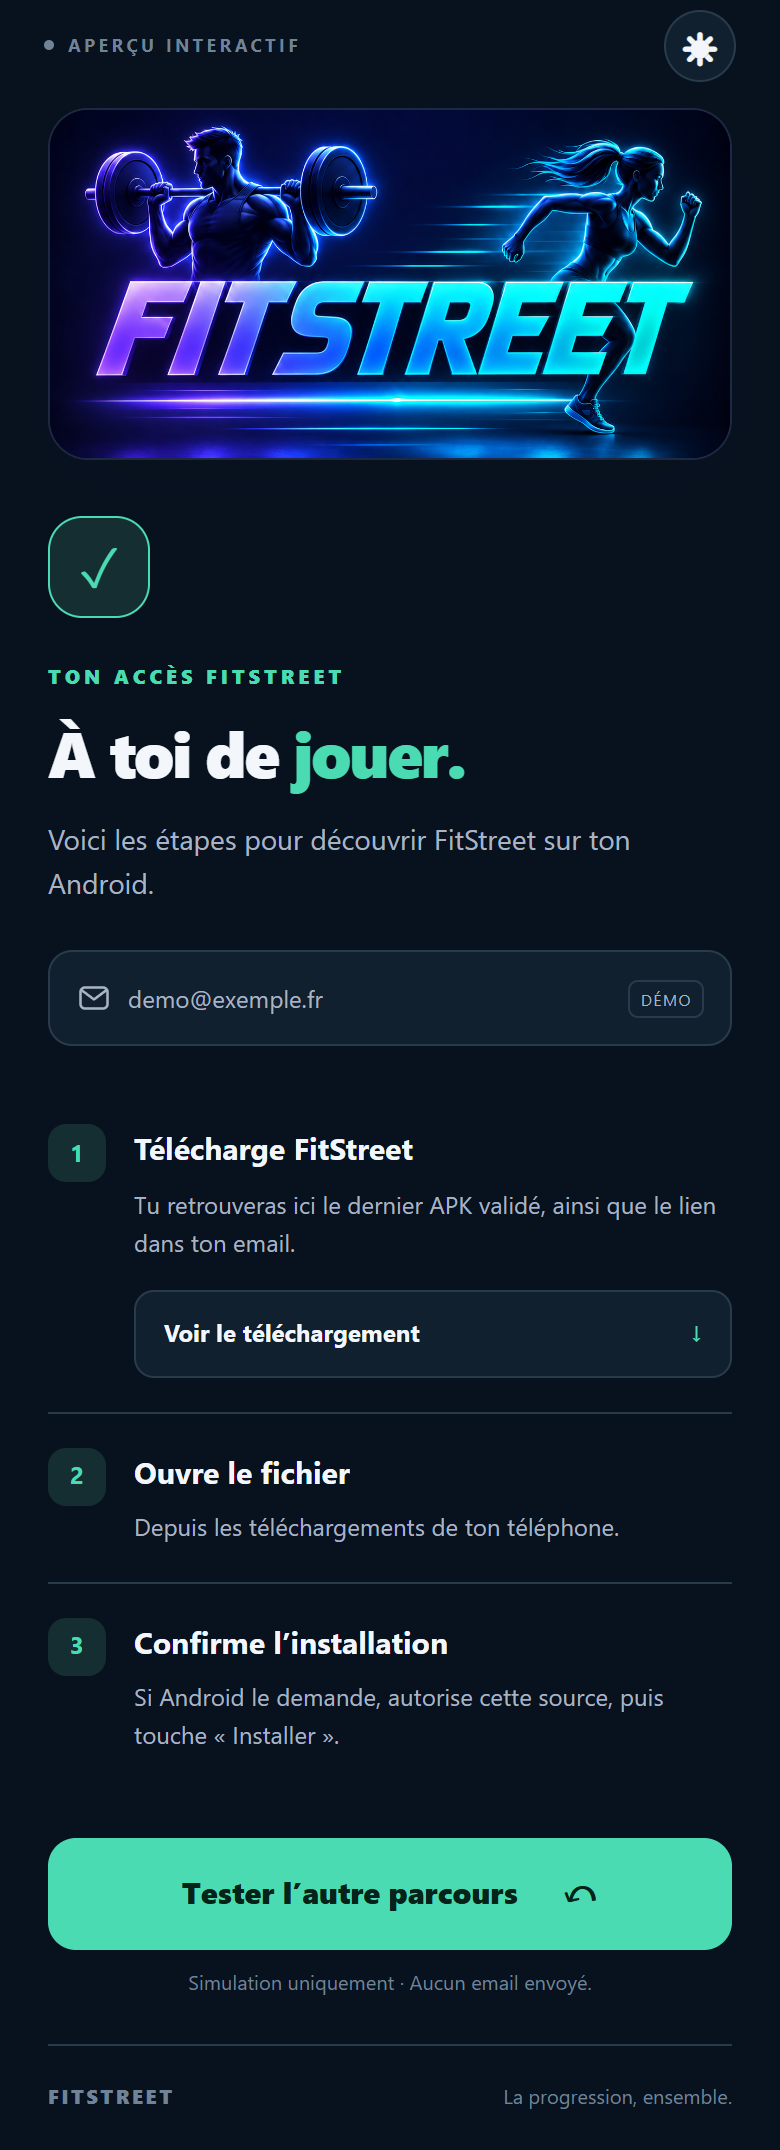
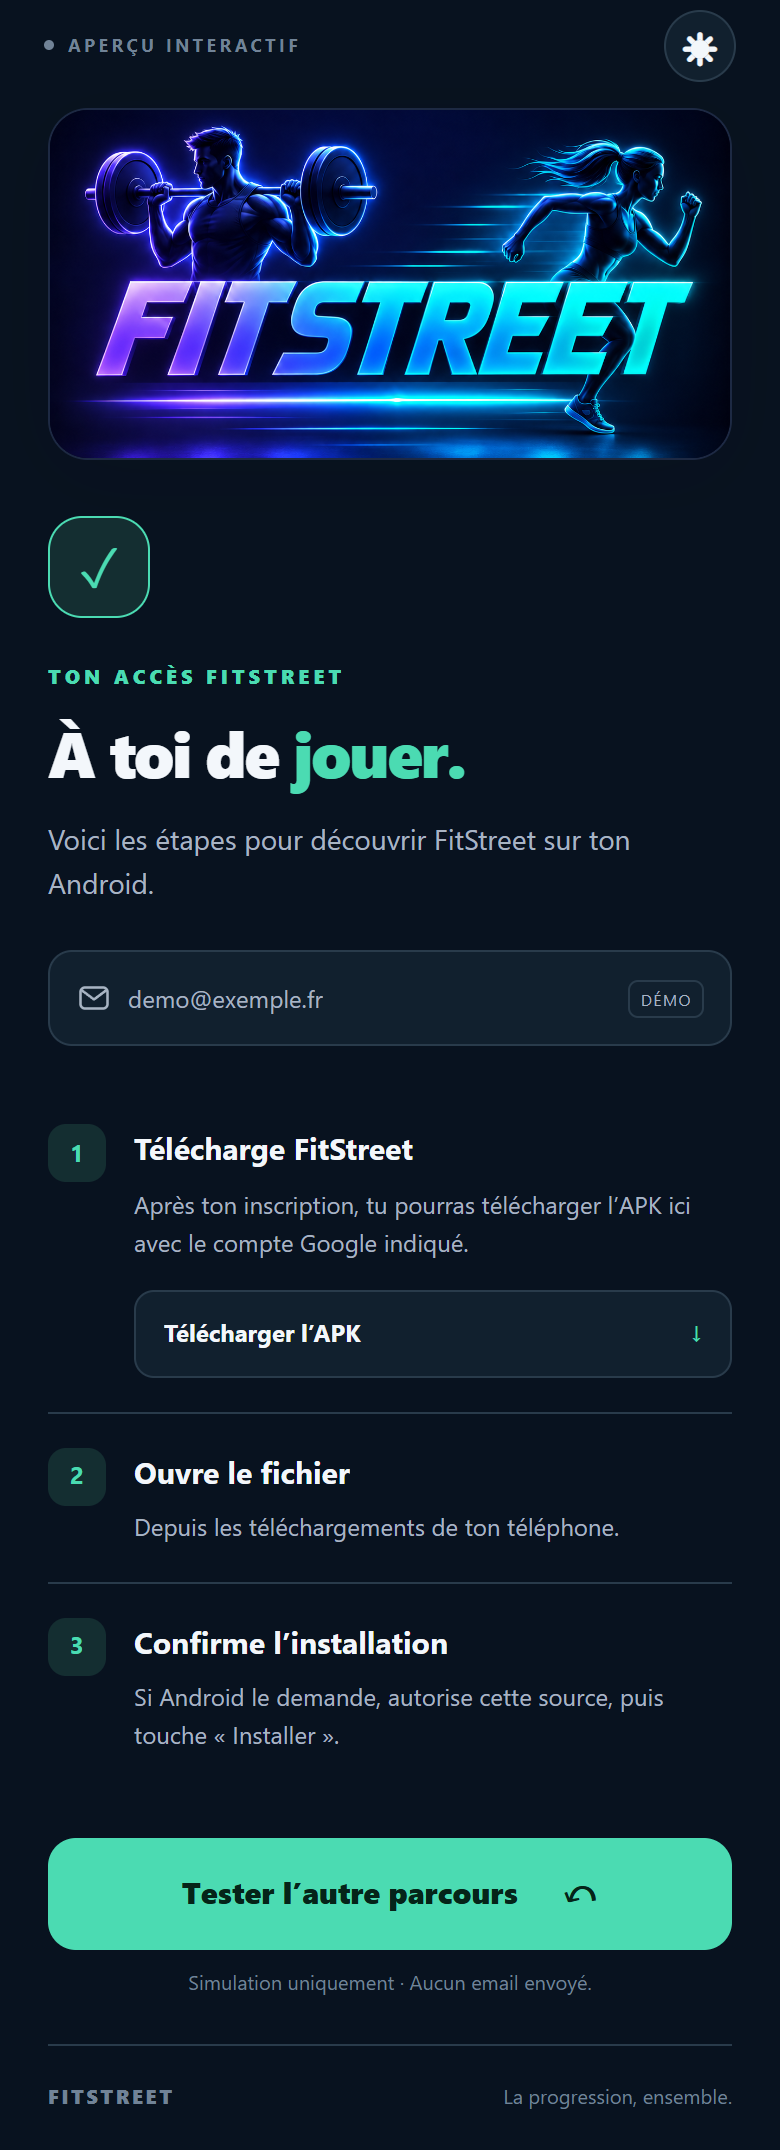
Clarify Android signup with direct APK access

Changed region(s): [[0.1846, 0.5609, 0.6154, 0.6233], [0.7077, 0.5609, 0.7385, 0.5921]]

diff --git a/index.html b/index.html
@@ -49,11 +49,11 @@
         <article><span class="step-number">3</span><div><h2>Installe FitStreet</h2><p>Accepte l’invitation, puis touche « Installer » dans TestFlight.</p></div></article>
       </div>
       <div id="android-steps" class="steps" hidden>
-        <article><span class="step-number">1</span><div><h2>Télécharge FitStreet</h2><p>Tu retrouveras ici le dernier APK validé, ainsi que le lien dans ton email.</p><button type="button" class="secondary" id="apk-demo">Voir le téléchargement <span aria-hidden="true">↓</span></button></div></article>
+        <article><span class="step-number">1</span><div><h2>Télécharge FitStreet</h2><p>Après ton inscription, tu pourras télécharger l’APK ici avec le compte Google indiqué.</p><button type="button" class="secondary" id="apk-demo">Télécharger l’APK <span aria-hidden="true">↓</span></button></div></article>
         <article><span class="step-number">2</span><div><h2>Ouvre le fichier</h2><p>Depuis les téléchargements de ton téléphone.</p></div></article>
         <article><span class="step-number">3</span><div><h2>Confirme l’installation</h2><p>Si Android le demande, autorise cette source, puis touche « Installer ».</p></div></article>
       </div>
-      <p id="download-note" class="download-note" role="status" hidden>Dans la version finale, ce bouton téléchargera l’APK FitStreet. Aucun fichier n’est téléchargé dans cet aperçu.</p>
+      <p id="download-note" class="download-note" role="status" hidden>Dans la version finale, ton email sera enregistré pour le suivi, puis ce bouton ouvrira l’APK sur Drive dès que ton accès sera accordé. Aucun fichier n’est téléchargé dans cet aperçu.</p>
       <button id="reset" type="button" class="primary">Tester l’autre parcours <span aria-hidden="true">↶</span></button>
       <p class="demo-note">Simulation uniquement · Aucun email envoyé.</p>
     </section>

diff --git a/preview.js b/preview.js
@@ -9,7 +9,7 @@ const selectedPlatform = () => form.elements.platform.value;
 const updatePlatform = () => {
   document.querySelector('#platform-note').textContent = selectedPlatform() === 'ios'
     ? 'Sur iPhone, l’installation passe par TestFlight.'
-    : 'Sur Android, tu installes FitStreet avec un fichier APK.';
+    : 'Indique l’adresse de ton compte Google. Après l’inscription, tu accèdes au téléchargement ici.';
 };
 form.querySelectorAll('[name=platform]').forEach(input => input.addEventListener('change', updatePlatform));
 document.querySelector('#demo-fill').addEventListener('click', () => {

diff --git a/README.md b/README.md
@@ -11,7 +11,9 @@ App Store ouvre la véritable fiche de TestFlight.
 
 Le rendu est une maquette personnalisée du parcours envisagé. Ce n’est pas une
 capture de Notion : l’habillage exact devra être adapté si Notion gratuit est retenu.
-La connexion à l’envoi des emails et à App Store Connect constitue une étape séparée.
+Le parcours Android prévu garde l’email obligatoire pour le suivi dans un Sheet
+privé, puis affiche le téléchargement après attribution de l’accès Drive, sans
+attendre un email. Le branchement Google et App Store Connect reste à activer.
 
 ### Accueil
 
